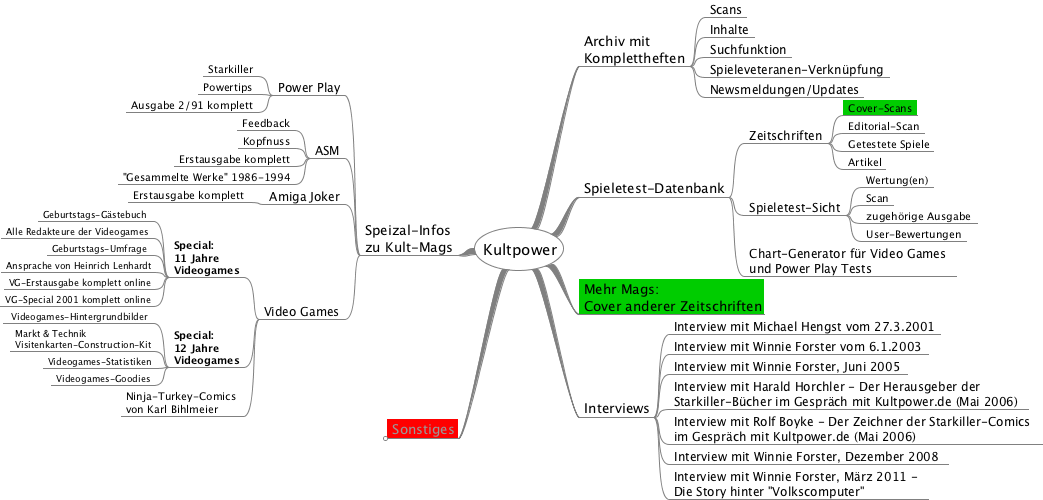
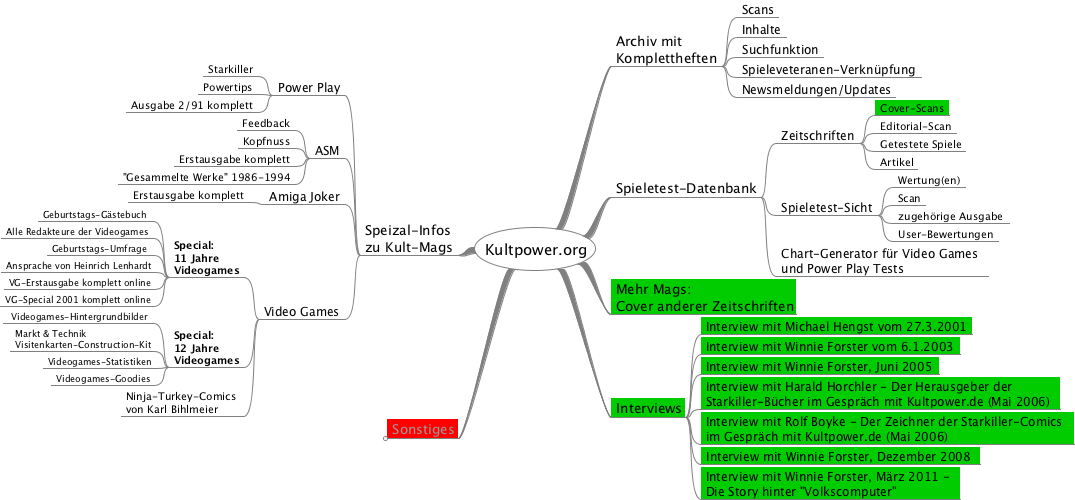
aktueller Stand Mindmaps aktualisiert

Changed region(s): [[0.0, 0.0, 1.0, 1.0]]

diff --git a/misc/Kultpower-Webseitenstruktur-2016.mm b/misc/Kultpower-Webseitenstruktur-2016.mm
@@ -70,34 +70,34 @@
 <edge STYLE="sharp_bezier" WIDTH="8"/>
 <font NAME="SansSerif" SIZE="18"/>
 </node>
-<node COLOR="#000000" CREATED="1451636942214" ID="ID_942801187" MODIFIED="1455568153421" POSITION="right" STYLE="fork" TEXT="Interviews">
+<node BACKGROUND_COLOR="#00cc00" COLOR="#000000" CREATED="1451636942214" ID="ID_942801187" MODIFIED="1456505074537" POSITION="right" STYLE="fork" TEXT="Interviews">
 <edge STYLE="sharp_bezier" WIDTH="8"/>
 <font NAME="SansSerif" SIZE="18"/>
-<node COLOR="#000000" CREATED="1451638986978" ID="ID_576948997" MODIFIED="1455568153421" STYLE="fork" TEXT="Interview mit Michael Hengst vom 27.3.2001">
+<node BACKGROUND_COLOR="#00cc00" COLOR="#000000" CREATED="1451638986978" ID="ID_576948997" MODIFIED="1456505066783" STYLE="fork" TEXT="Interview mit Michael Hengst vom 27.3.2001">
 <edge STYLE="bezier" WIDTH="thin"/>
 <font NAME="SansSerif" SIZE="16"/>
 </node>
-<node COLOR="#000000" CREATED="1451638999360" ID="ID_545608214" MODIFIED="1455568153421" STYLE="fork" TEXT="Interview mit Winnie Forster vom 6.1.2003">
+<node BACKGROUND_COLOR="#00cc00" COLOR="#000000" CREATED="1451638999360" ID="ID_545608214" MODIFIED="1456505066807" STYLE="fork" TEXT="Interview mit Winnie Forster vom 6.1.2003">
 <edge STYLE="bezier" WIDTH="thin"/>
 <font NAME="SansSerif" SIZE="16"/>
 </node>
-<node COLOR="#000000" CREATED="1451639084645" ID="ID_740911125" MODIFIED="1455568153420" STYLE="fork" TEXT="Interview mit Winnie Forster, Juni 2005">
+<node BACKGROUND_COLOR="#00cc00" COLOR="#000000" CREATED="1451639084645" ID="ID_740911125" MODIFIED="1456505066806" STYLE="fork" TEXT="Interview mit Winnie Forster, Juni 2005">
 <edge STYLE="bezier" WIDTH="thin"/>
 <font NAME="SansSerif" SIZE="16"/>
 </node>
-<node COLOR="#000000" CREATED="1451639220236" ID="ID_1733761531" MODIFIED="1455568153413" STYLE="fork" TEXT="Interview mit Harald Horchler - Der Herausgeber der &#xa;Starkiller-B&#xfc;cher im Gespr&#xe4;ch mit Kultpower.de (Mai 2006) ">
+<node BACKGROUND_COLOR="#00cc00" COLOR="#000000" CREATED="1451639220236" ID="ID_1733761531" MODIFIED="1456505066796" STYLE="fork" TEXT="Interview mit Harald Horchler - Der Herausgeber der &#xa;Starkiller-B&#xfc;cher im Gespr&#xe4;ch mit Kultpower.de (Mai 2006) ">
 <edge STYLE="bezier" WIDTH="thin"/>
 <font NAME="SansSerif" SIZE="16"/>
 </node>
-<node COLOR="#000000" CREATED="1451639297390" ID="ID_1918591071" MODIFIED="1455568153407" STYLE="fork" TEXT="Interview mit Rolf Boyke - Der Zeichner der Starkiller-Comics &#xa;im Gespr&#xe4;ch mit Kultpower.de (Mai 2006)">
+<node BACKGROUND_COLOR="#00cc00" COLOR="#000000" CREATED="1451639297390" ID="ID_1918591071" MODIFIED="1456505066791" STYLE="fork" TEXT="Interview mit Rolf Boyke - Der Zeichner der Starkiller-Comics &#xa;im Gespr&#xe4;ch mit Kultpower.de (Mai 2006)">
 <edge STYLE="bezier" WIDTH="thin"/>
 <font NAME="SansSerif" SIZE="16"/>
 </node>
-<node COLOR="#000000" CREATED="1451639118840" ID="ID_15432644" MODIFIED="1455568153407" STYLE="fork" TEXT="Interview mit Winnie Forster, Dezember 2008 ">
+<node BACKGROUND_COLOR="#00cc00" COLOR="#000000" CREATED="1451639118840" ID="ID_15432644" MODIFIED="1456505066791" STYLE="fork" TEXT="Interview mit Winnie Forster, Dezember 2008 ">
 <edge STYLE="bezier" WIDTH="thin"/>
 <font NAME="SansSerif" SIZE="16"/>
 </node>
-<node COLOR="#000000" CREATED="1451639166338" ID="ID_1960099873" MODIFIED="1455568153401" STYLE="fork" TEXT="Interview mit Winnie Forster, M&#xe4;rz 2011 - &#xa;Die Story hinter &quot;Volkscomputer&quot;">
+<node BACKGROUND_COLOR="#00cc00" COLOR="#000000" CREATED="1451639166338" ID="ID_1960099873" MODIFIED="1456505066784" STYLE="fork" TEXT="Interview mit Winnie Forster, M&#xe4;rz 2011 - &#xa;Die Story hinter &quot;Volkscomputer&quot;">
 <edge STYLE="bezier" WIDTH="thin"/>
 <font NAME="SansSerif" SIZE="16"/>
 </node>
